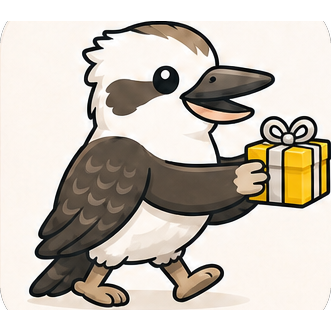
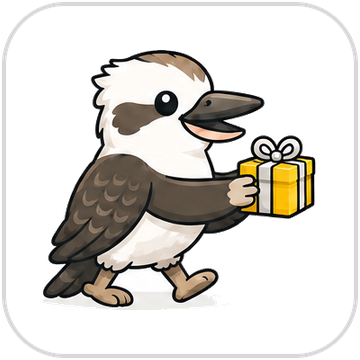
Switch mascots to white tiles; tighten Shine/Peak spacing; fix share CTA
- New source assets/mascot.png (mascots on white tiles): build_mascots.py now
  isolates each mascot and composites it onto a uniform white rounded tile
  with a subtle border, for a consistent boxed icon style
- Reduced the gap between the badge/timeline and their captions on the Shine
  and Peak story cards
- Share card CTA now reads "What's YOUR 2026 Money Spirit?"

diff --git a/build_mascots.py b/build_mascots.py
@@ -1,24 +1,25 @@
 """
 Crop the supplied mascot illustration grid into 8 rounded-square icon tiles.
 
-Input  : assets/mascots_source.png  (a 4-column x 2-row grid of mascot tiles)
+Input  : assets/mascot.png  (a 4-column x 2-row grid of white, bordered tiles)
 Output : assets/mascots/<driver>.png  (one per persona)
 
-The original artwork already presents each mascot inside a rounded-square tile
-with its own dark or cream background (alternating across the grid). Rather
-than removing those backgrounds, we keep them: each cell is tight-cropped to
-its tile and a rounded-rectangle mask trims the outer white gap/corners, giving
-a clean app-icon-style tile that preserves the illustration exactly.
+The artwork presents each mascot inside a white rounded-square tile with a thin
+border, on a white page. We keep those tiles exactly as drawn: each cell is
+tight-cropped to its tile (via the border), then the four outer corners — the
+white page showing through outside the rounded border — are flood-filled to
+transparency. The white fill and border inside the tile are left untouched, so
+the icon keeps its original look on any background.
 
 Run:  python3 build_mascots.py
-Tune: CORNER_RADIUS if the rounded corners show white or clip the art.
 """
 import os
+from collections import deque
 
 from PIL import Image, ImageDraw
 
 HERE = os.path.dirname(os.path.abspath(__file__))
-SRC = os.path.join(HERE, "assets", "mascots_source.png")
+SRC = os.path.join(HERE, "assets", "mascot.png")
 OUT_DIR = os.path.join(HERE, "assets", "mascots")
 
 # Grid position (row, col) -> persona driver. Matches the supplied artwork:
@@ -30,56 +31,97 @@ LAYOUT = {
 }
 
 COLS, ROWS = 4, 2
-GRID_MARGIN = 0.015     # trim a sliver off each cell before tile detection
-WHITE = (252, 252, 252, 255)
-WHITE_TOL = 30          # how close to pure white counts as the outer gap
-CORNER_RADIUS = 0.14    # rounded-corner radius as a fraction of the tile side
-SUPERSAMPLE = 4         # mask anti-aliasing quality
+GRID_MARGIN = 0.01      # trim a sliver off each cell before tile detection
+BORDER_LEVEL = 232      # pixels darker than this (any channel) count as foreground
+CORNER_WHITE = 236      # corner-flood clears pixels lighter than this
+
+# White rounded-tile output (consistent app-icon style, with a subtle border)
+TILE = 360              # output tile size (px)
+MASCOT_MARGIN = 0.12    # white margin around the mascot inside the tile
+RADIUS = 0.18           # corner radius as a fraction of the tile size
+TILE_FILL = (255, 255, 255, 255)
+BORDER_COLOR = (214, 214, 217, 255)
+BORDER_W = 4
+SS = 4                  # supersampling for smooth mask/border
 
 
-def _close(a, b, tol):
-    return abs(a[0] - b[0]) <= tol and abs(a[1] - b[1]) <= tol and abs(a[2] - b[2]) <= tol
+def _is_white(c, level):
+    return c[0] >= level and c[1] >= level and c[2] >= level
 
 
 def _tile_bbox(px, w, h):
-    """Bounding box of the non-white region = the rounded tile within the cell."""
+    """Bounding box of the tile (its border is the outermost non-white ring)."""
     minx, miny, maxx, maxy, found = w, h, 0, 0, False
     for y in range(0, h, 2):
         for x in range(0, w, 2):
-            if not _close(px[x, y], WHITE, WHITE_TOL):
+            if not _is_white(px[x, y], BORDER_LEVEL):
                 found = True
                 minx, maxx = min(minx, x), max(maxx, x)
                 miny, maxy = min(miny, y), max(maxy, y)
     if not found:
         return (0, 0, w, h)
-    return (max(0, minx), max(0, miny), min(w, maxx + 1), min(h, maxy + 1))
+    return (max(0, minx - 1), max(0, miny - 1), min(w, maxx + 2), min(h, maxy + 2))
 
 
-def _rounded_square(tile):
-    """Centre the tile on a square canvas and apply a rounded-rect alpha mask."""
-    tw, th = tile.size
-    side = max(tw, th)
-    canvas = Image.new("RGBA", (side, side), (0, 0, 0, 0))
-    canvas.paste(tile, ((side - tw) // 2, (side - th) // 2))
+def _clear_corners(tile):
+    """Flood from the four corners, clearing the white page outside the rounded
+    border to transparency (stops at the border, so the tile fill is kept)."""
+    tile = tile.convert("RGBA")
+    px = tile.load()
+    w, h = tile.size
+    seen = [[False] * w for _ in range(h)]
+    q = deque([(0, 0), (w - 1, 0), (0, h - 1), (w - 1, h - 1)])
+    while q:
+        x, y = q.popleft()
+        if not (0 <= x < w and 0 <= y < h) or seen[y][x]:
+            continue
+        seen[y][x] = True
+        c = px[x, y]
+        if c[3] == 0 or _is_white(c, CORNER_WHITE):
+            px[x, y] = (0, 0, 0, 0)
+            q.extend([(x + 1, y), (x - 1, y), (x, y + 1), (x, y - 1)])
+    return tile
 
-    big = side * SUPERSAMPLE
+
+def _white_tile(mascot):
+    """Centre the isolated mascot on a uniform white rounded tile with a thin
+    border — keeping the consistent boxed icon style on any background."""
+    bbox = mascot.getbbox()
+    if bbox:
+        mascot = mascot.crop(bbox)
+    inner = int(TILE * (1 - 2 * MASCOT_MARGIN))
+    scale = min(inner / mascot.width, inner / mascot.height)
+    mascot = mascot.resize(
+        (max(1, int(mascot.width * scale)), max(1, int(mascot.height * scale))),
+        Image.LANCZOS,
+    )
+
+    # rounded-rect alpha mask (supersampled)
+    big = TILE * SS
     mask = Image.new("L", (big, big), 0)
     ImageDraw.Draw(mask).rounded_rectangle(
-        [0, 0, big - 1, big - 1], radius=int(big * CORNER_RADIUS), fill=255
+        [0, 0, big - 1, big - 1], radius=int(big * RADIUS), fill=255
     )
-    mask = mask.resize((side, side), Image.LANCZOS)
+    mask = mask.resize((TILE, TILE), Image.LANCZOS)
 
-    out = Image.new("RGBA", (side, side), (0, 0, 0, 0))
-    out.paste(canvas, (0, 0), mask)
-    return out
+    tile = Image.new("RGBA", (TILE, TILE), TILE_FILL)
+    tile.paste(mascot, ((TILE - mascot.width) // 2, (TILE - mascot.height) // 2), mascot)
+    tile.putalpha(mask)
+
+    # subtle border, drawn just inside the rounded edge
+    bd = Image.new("RGBA", (big, big), (0, 0, 0, 0))
+    off = BORDER_W * SS // 2
+    ImageDraw.Draw(bd).rounded_rectangle(
+        [off, off, big - 1 - off, big - 1 - off],
+        radius=int(big * RADIUS) - off, outline=BORDER_COLOR, width=BORDER_W * SS,
+    )
+    tile.alpha_composite(bd.resize((TILE, TILE), Image.LANCZOS))
+    return tile
 
 
 def main():
     if not os.path.exists(SRC):
-        raise SystemExit(
-            f"Source not found: {SRC}\n"
-            "Save the mascot grid image there first (assets/mascots_source.png)."
-        )
+        raise SystemExit(f"Source not found: {SRC}\nSave the mascot grid there first.")
     os.makedirs(OUT_DIR, exist_ok=True)
     img = Image.open(SRC).convert("RGBA")
     W, H = img.size
@@ -91,7 +133,7 @@ def main():
                          int((col + 1) * cw - mx), int((row + 1) * ch - my)))
         px = cell.load()
         cell = cell.crop(_tile_bbox(px, cell.width, cell.height))
-        out_img = _rounded_square(cell)
+        out_img = _white_tile(_clear_corners(cell))
         out = os.path.join(OUT_DIR, f"{driver}.png")
         out_img.save(out)
         print(f"  ✓ {driver:13s} {out_img.size}  ->  {os.path.relpath(out, HERE)}")

diff --git a/phone_ui.py b/phone_ui.py
@@ -133,8 +133,8 @@ def _cards(wrap):
         <h2 class="reveal-up d2" style="margin-top:8px">{wrap['peak_month']} was your<br/>biggest {wrap['driver_label'].lower()} month</h2>
         <div class="spacer"></div>
         <div class="reveal-up d3">{_timeline_html(wrap['timeline'], wrap['peak_month'])}</div>
+        <p class="sub reveal-up d4" style="margin-top:22px">That's when {wrap['driver_label'].lower()} became a major part of your year.</p>
         <div class="spacer"></div>
-        <p class="sub reveal-up d4">That's when {wrap['driver_label'].lower()} became a major part of your year.</p>
       </div>
     </section>""")
 
@@ -149,8 +149,8 @@ def _cards(wrap):
           <div class="pct">Top<br/>{wrap['shine_band']}<small>%</small></div>
           <div class="lab">of your crowd</div>
         </div>
+        <p class="lead reveal-up d3" style="text-align:center;margin-top:26px">{wrap['shine_copy']}</p>
         <div class="spacer"></div>
-        <p class="lead reveal-up d3" style="text-align:center">{wrap['shine_copy']}</p>
       </div>
     </section>""")
 

diff --git a/share_card.py b/share_card.py
@@ -111,7 +111,7 @@ def render_share_card(persona, year=2026, logo_html="", *, standalone=False):
   <div class="igc-name">{name}</div>
   <div class="igc-desc">{desc}</div>
 
-  <div class="igc-cta">What's YOUR {year} Money spend?</div>
+  <div class="igc-cta">What's YOUR {year} Money Spirit?</div>
   <div class="igc-foot">Check your Money Wrapped in the app</div>
 </div>
 {wrapper_close}
